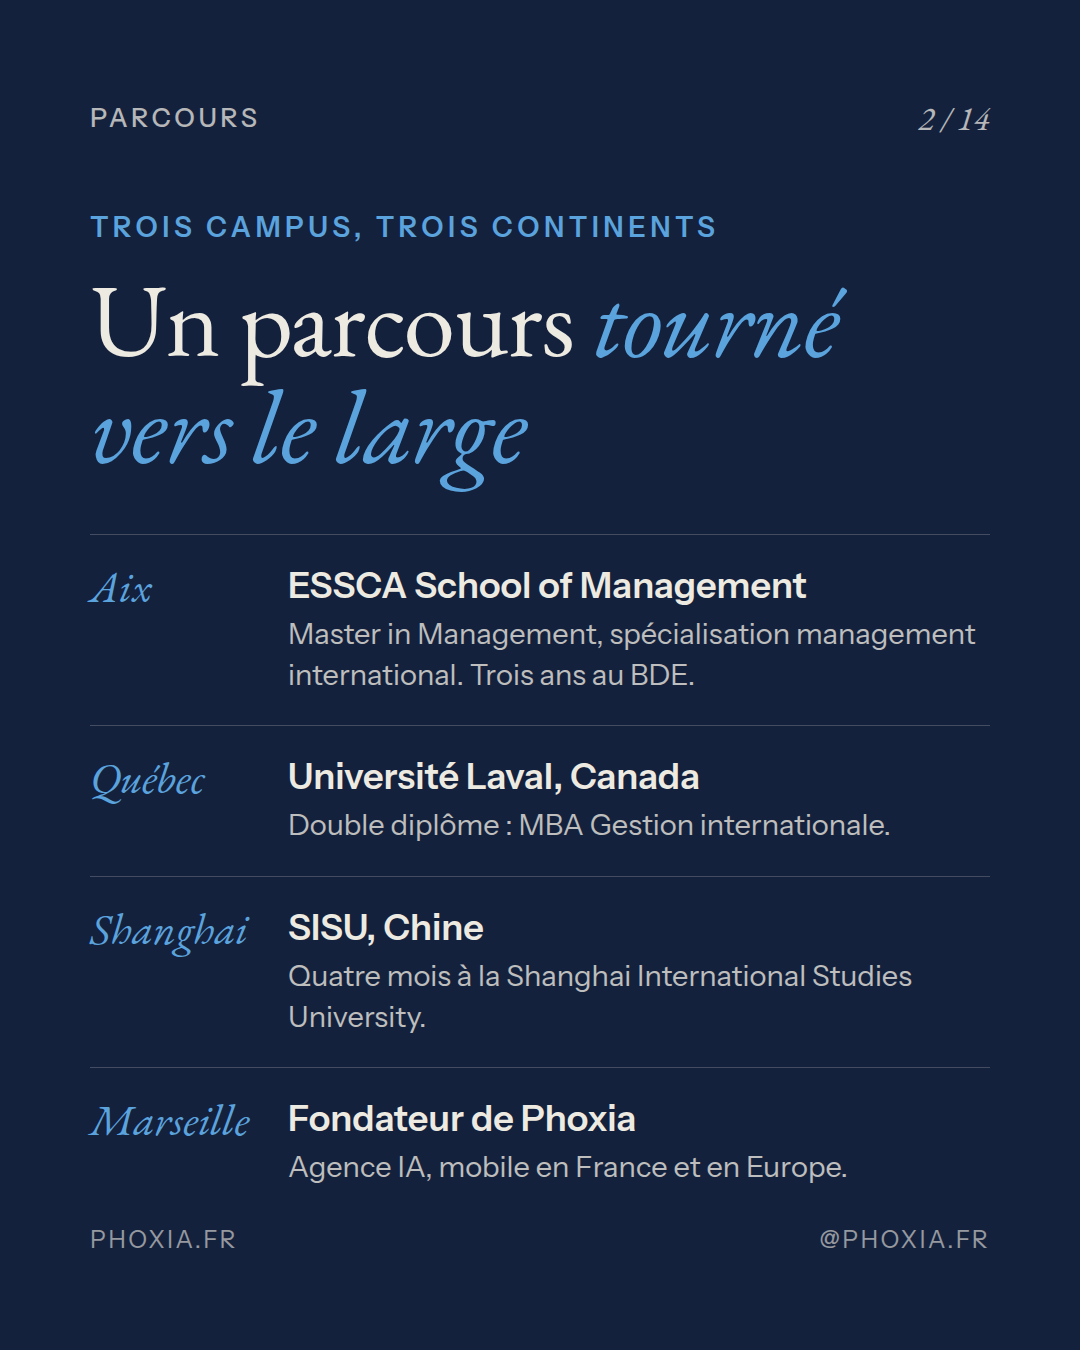
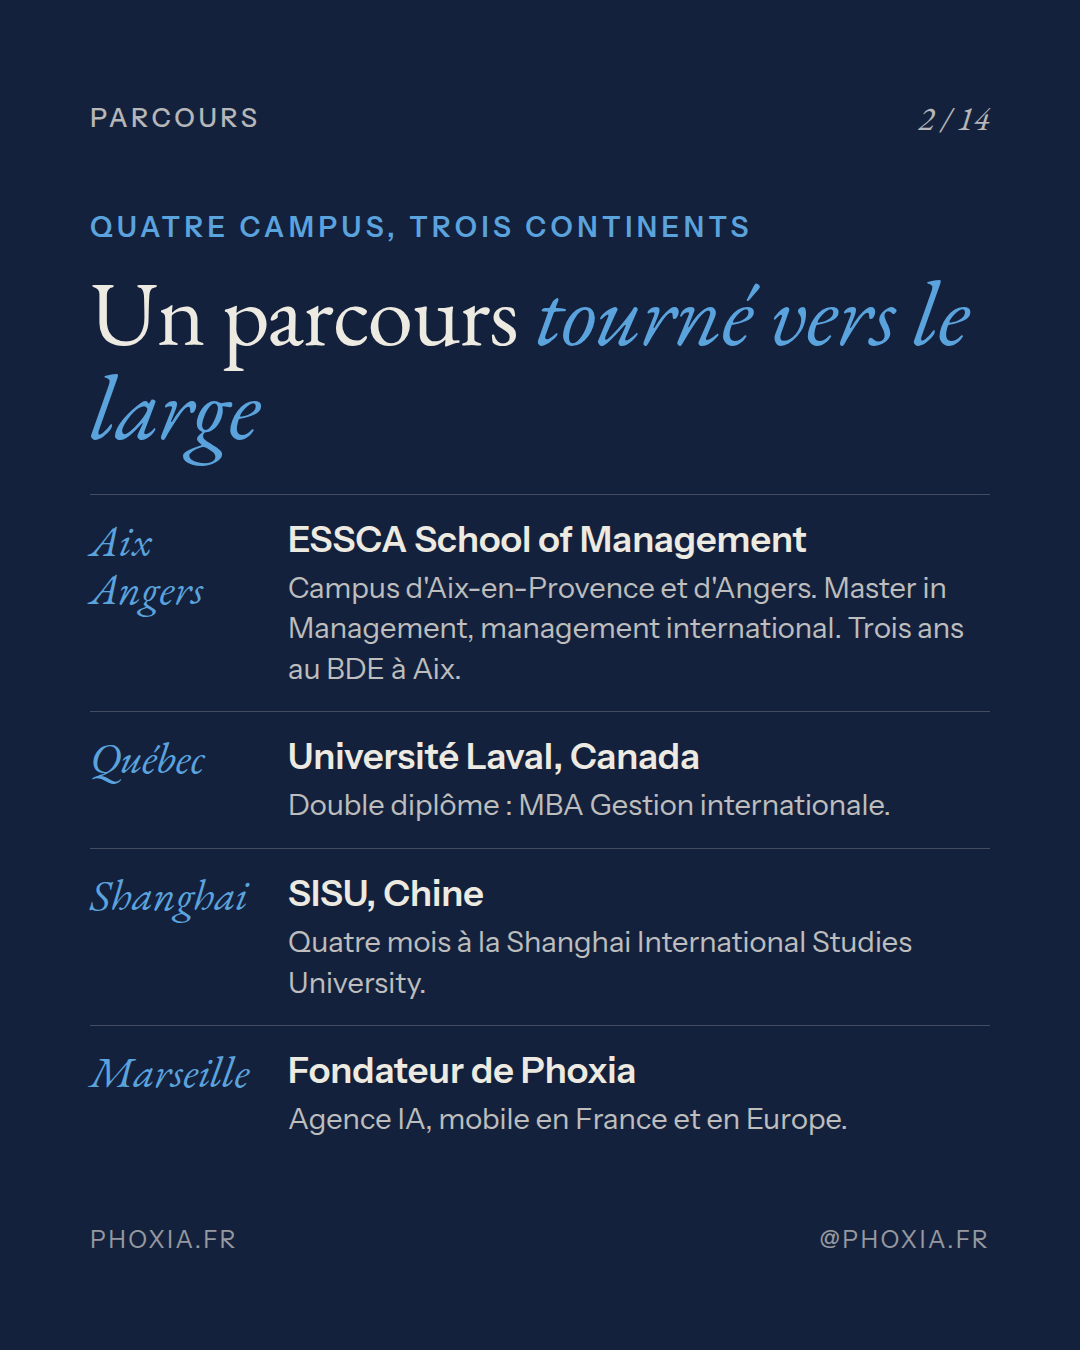
Carrousel Instagram : ajoute le campus d'Angers au parcours
Claude-Session: https://claude.ai/code/session_01TMTnMu3aN2J2VFEdaEERUD

diff --git a/instagram/presentation-mathieu/carrousel.html b/instagram/presentation-mathieu/carrousel.html
@@ -60,6 +60,9 @@
   /* Projets */
   .projets { display: grid; grid-template-columns: 1fr 1fr; gap: 24px; margin-top: 44px; }
   #s5 h2 { font-size: 92px; }
+  #s2 h2 { font-size: 92px; }
+  #s2 .liste { margin-top: 40px; gap: 22px; }
+  #s2 .ligne { padding-top: 22px; }
   #s4 .liste { margin-top: 44px; gap: 22px; }
   #s4 .ligne { padding-top: 22px; }
   #s10 .liste { margin-top: 40px; gap: 24px; }
@@ -158,10 +161,10 @@
 <!-- 2. Parcours -->
 <section class="slide" id="s2">
   <div class="haut"><span>Parcours</span><span class="num">2 / 14</span></div>
-  <p class="kicker">Trois campus, trois continents</p>
+  <p class="kicker">Quatre campus, trois continents</p>
   <h2>Un parcours <em>tourné vers le large</em></h2>
   <div class="liste">
-    <div class="ligne"><b>Aix</b><div><strong>ESSCA School of Management</strong><span>Master in Management, spécialisation management international. Trois ans au BDE.</span></div></div>
+    <div class="ligne"><b>Aix<br>Angers</b><div><strong>ESSCA School of Management</strong><span>Campus d'Aix-en-Provence et d'Angers. Master in Management, management international. Trois ans au BDE à Aix.</span></div></div>
     <div class="ligne"><b>Québec</b><div><strong>Université Laval, Canada</strong><span>Double diplôme : MBA Gestion internationale.</span></div></div>
     <div class="ligne"><b>Shanghai</b><div><strong>SISU, Chine</strong><span>Quatre mois à la Shanghai International Studies University.</span></div></div>
     <div class="ligne"><b>Marseille</b><div><strong>Fondateur de Phoxia</strong><span>Agence IA, mobile en France et en Europe.</span></div></div>

diff --git a/instagram/presentation-mathieu/legende.md b/instagram/presentation-mathieu/legende.md
@@ -5,7 +5,7 @@ Qui se cache derrière Phoxia ? 👋
 Moi, c'est Mathieu, fondateur de Phoxia, agence IA basée à Marseille.
 
 📚 Parcours
-ESSCA (Master in Management), double diplôme MBA à l'Université Laval au Québec, quatre mois à Shanghai. Trois campus, trois continents.
+ESSCA à Aix-en-Provence et Angers (Master in Management), double diplôme MBA à l'Université Laval au Québec, quatre mois à Shanghai. Quatre campus, trois continents.
 
 💼 Avant l'IA
 Indépendant depuis 2017 : vente de logiciels au Maroc, analyse de marché au Mexique, mission chez AXA, gestion commerciale d'une start-up singapourienne.
